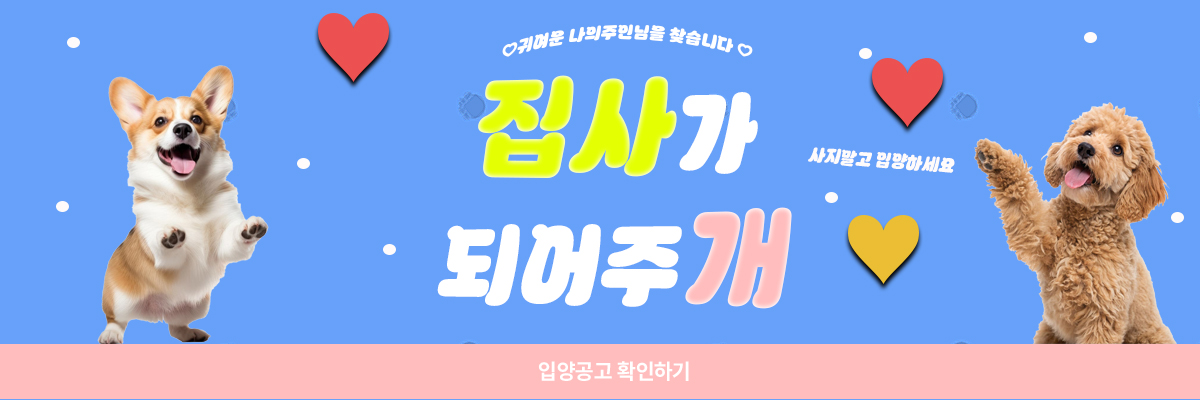
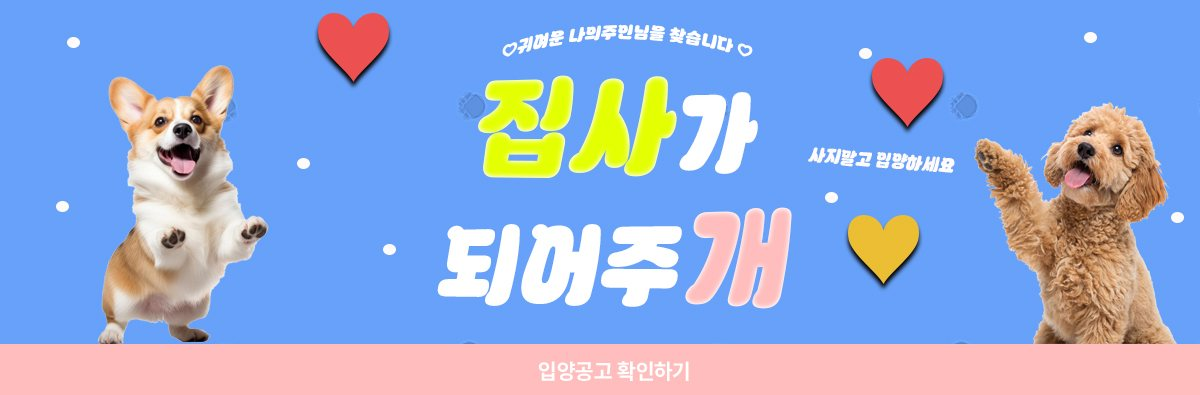
fix: 뉴스 배너 하단 파란줄 제거 (이미지 크롭 + clip-path 임시방편 삭제)

diff --git a/index.html b/index.html
@@ -232,7 +232,7 @@
         <article>
           <div class="news-slider" id="news-slider">
             <ul class="news-track">
-              <li class="news-slide news-slide--clip">
+              <li class="news-slide">
                 <img
                   src="images/banner_v9.jpg"
                   alt="집사가 되어주개 입양 캠페인"

diff --git a/css/main.css b/css/main.css
@@ -313,10 +313,6 @@
   height: auto;
   display: block;
 }
-/* banner_v9만 하단에 파란줄 버그가 있음 임시방편 clip(v7은 문제x)*/
-.news-slide.news-slide--clip img {
-  clip-path: inset(0 0 3px 0);
-}
 .news-nav {
   /* nav-btn 배너 상단50% 배치*/
   position: absolute;
